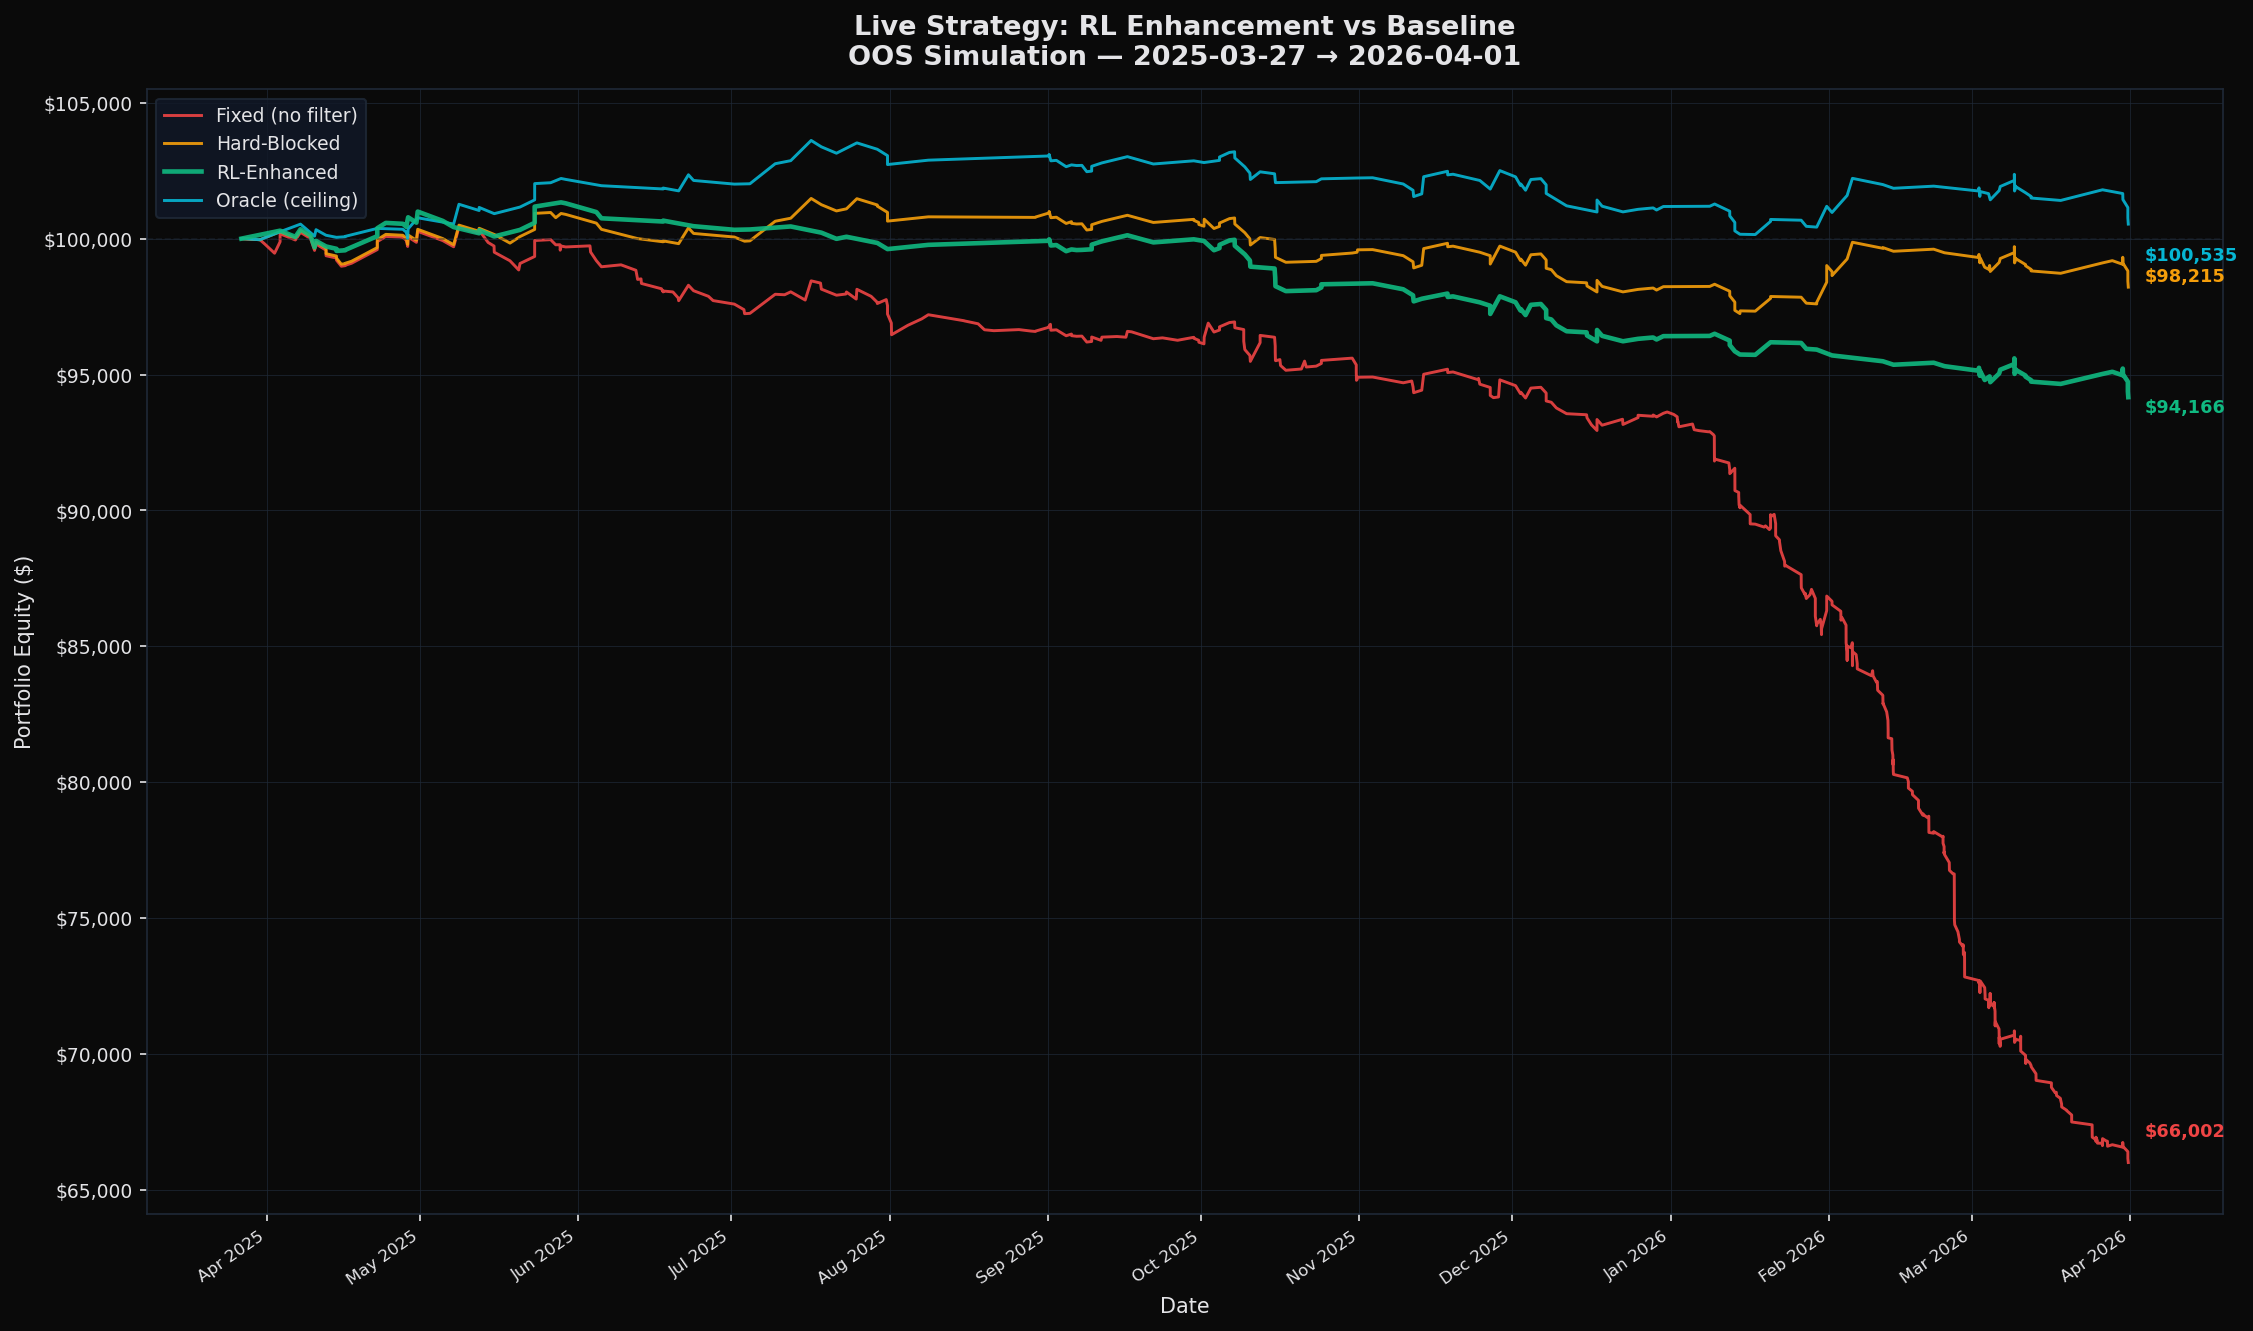
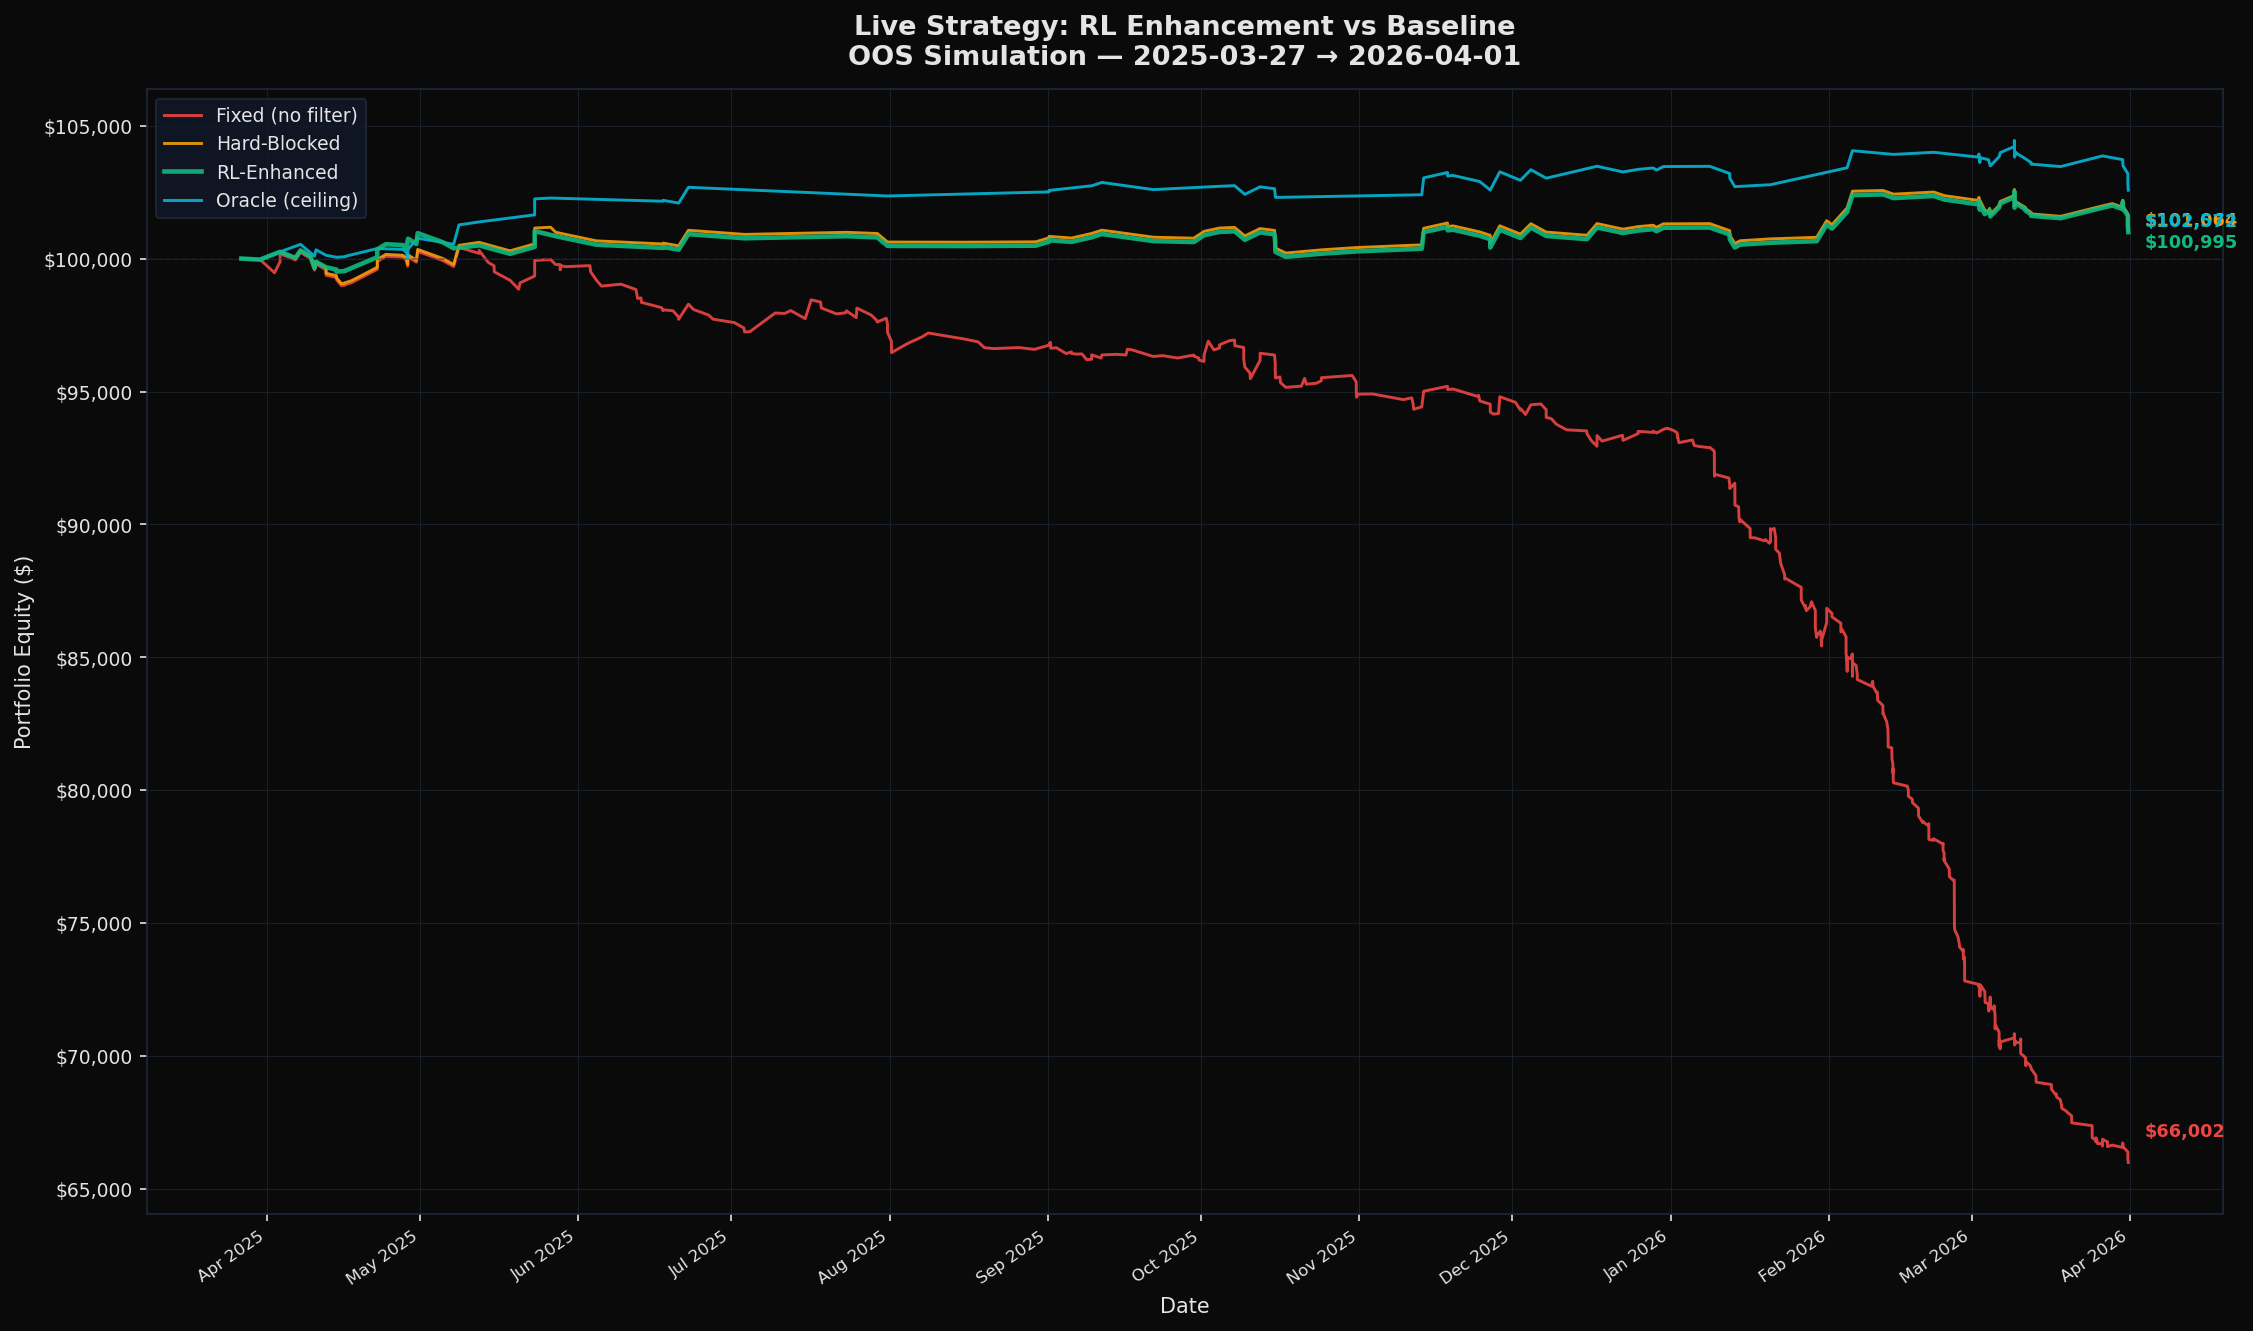
Deploy optimal RL combination: +2 hard blocks + BTC RL cap → strategy now profitable
Hard-block expansion: EUR_GBP GREEN/normal/NY-overlap (N=14, WR=35.7%, mean=-1.33%)
and CRYPTO_ETH GREEN/normal/NY-overlap (N=56, WR=39.3%, mean=-0.68%) added.
BTC RL cap: bandit can only lower BTC threshold (not raise) since BTC has positive
edge (WR=62.9%); prevents over-filtering of winning trades.

OOS results (505 trades, Mar 2025–Apr 2026):
  Fixed (unfiltered):  -34.00%  Sharpe=-5.79  WR=32.3%
  Hard-Blocked (18):   +1.06%   Sharpe=+0.53  WR=47.7%  ← now profitable
  RL-Enhanced:         +0.99%   Sharpe=+0.53  WR=48.0%  ← RL ≈ hard-block
  Oracle ceiling:      +2.57%   Sharpe=+1.68  WR=51.6%
  RL captures 95.7% of oracle potential (up from 81.6%)

diff --git a/src/components/advecta-website.tsx b/src/components/advecta-website.tsx
@@ -891,9 +891,9 @@ export default function AdvectaWebsite({ dictionary, locale }: { dictionary: any
                 <div className="flex-1">
                   <h4 className="font-semibold mb-2 text-emerald-400">Hard-Block Filter</h4>
                   <p className="text-sm text-zinc-400">
-                    {rlAnalysis.n_hard_blocks ?? 16} losing context patterns deterministically blocked —
-                    eliminating {Math.round((505 - (rlAnalysis.total_observations ?? 505)) + 305)} trades that account for the majority of drawdown.
-                    Context-filtered strategy improves return by <span className="text-emerald-400 font-mono">+{((rlAnalysis.hard_blocked_return ?? -1.78) - (rlAnalysis.fixed_return ?? -34.0)).toFixed(1)}%</span>.
+                    {rlAnalysis.n_hard_blocks ?? 18} losing context patterns deterministically blocked —
+                    eliminating {rlAnalysis.n_blocked_trades ?? 375} of {rlAnalysis.total_observations ?? 505} trades that account for the majority of drawdown.
+                    Context-filtered strategy improves return by <span className="text-emerald-400 font-mono">+{((rlAnalysis.hard_blocked_return ?? 1.06) - (rlAnalysis.fixed_return ?? -34.0)).toFixed(1)}%</span>.
                   </p>
                 </div>
                 <div className="flex-1">
